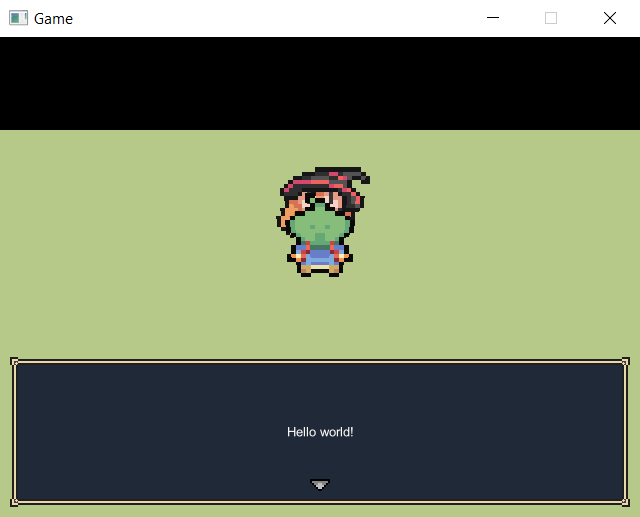
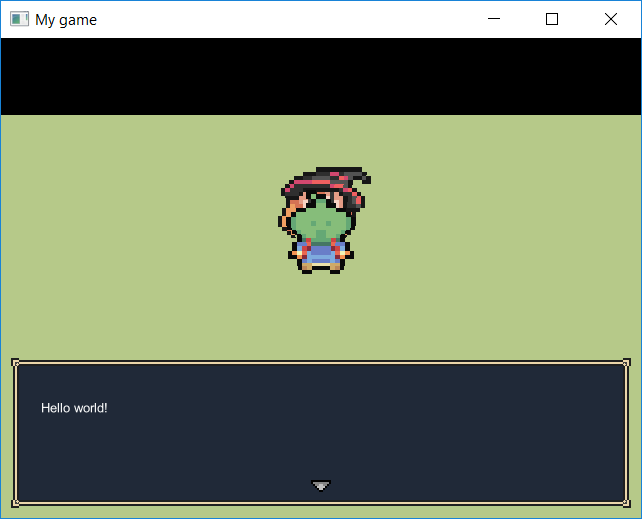
Update for 1.1.1 version

diff --git a/docs/index.md b/docs/index.md
@@ -4,9 +4,9 @@ Welcome to this guide! You will find here all what you need to be a pro Paper Ma
 
 ## License
 
-First, you should know that RPG Paper Maker is an Open Source project under GNU General Public License v3.0. Feel free to contribute to the github repository [here](https://github.com/RPG-Paper-Maker/RPG-Paper-Maker) if you have any skills in programming, project management, etc.
+First, you should know that RPG Paper Maker is an Open Source project under GNU Lesser General Public License v3.0. Feel free to contribute to the github repository [here](https://github.com/RPG-Paper-Maker/RPG-Paper-Maker) if you have any skills in programming, project management, etc.
 
-**RPG Paper Maker is free for non-commercial use** so you don't have to pay for it if you only want to share your games freely and have fun! However, if you want to sell your games made with the engine you will have to pay for the license. More details [here](http://rpg-paper-maker.com/index.php/downloads#content). If you want to support us, check out our [Patreon](https://www.patreon.com/rpgpapermaker/overview)!
+RPG Paper Maker games are licensed under Creative Commons Attribution-NonCommercial 4.0 license. **You are free to use RPG Paper Maker for your personal or non-profit games**. You can get the author's permission to use RPG Paper Maker for commercial games by paying a fee. More details [here](http://rpg-paper-maker.com/index.php/downloads#content). If you want to support us, check out our [Patreon](https://www.patreon.com/rpgpapermaker/overview)!
 
 **The commercial license is not released yet. This is comming out soon.**
 
@@ -54,7 +54,7 @@ You can open an existing project by clicking here on the main toolbar:
 
 ![Screenshot](img/open-project.png)
 
-You can also use `CTRL+O` or go to `File > Open project > Browse...`.
+You can also use `CTRL+O` or go to `File > Open project > Browse...`. Recent projects can also be opened on the first screen (or go to `File > Open project`).
 
 ## Change general game settings
 
@@ -105,6 +105,25 @@ Go to the `Systems manager > System` and take a look on the `Colors` box:
 
 ![Screenshot](img/colors.png)
 
+## Change game name
+
+Go to the `Systems manager > System` and take a look on the `Game name` box:
+
+![Screenshot](img/game-name.png)
+
+This will affect the window title when you are launching the game.
+
+## Change game screen resolution
+
+Go to the `Systems manager > System` and take a look on the `Game native resolution` box:
+
+![Screenshot](img/game-resolution.png)
+
+* `Width`: The native width of your game window.
+* `Height`: The native height of your game window.
+* `Window`: Choose a window mode.
+* `Full screen`: choose full screen mode. Note that `Width` and `Height` have no effect with this option.
+
 ## Test your game
 
 You can test your opened project by clicking here on the main toolbar:
@@ -118,5 +137,7 @@ If you want to publish your game (share your game without any need for players t
 ![Screenshot](img/deploy.png)
 
 * `Location`: The location of the standalone folder that you want to create. The name of this folder will be `yourGameName{OS}`.
-* `Deploy a desktop application`: Choose here to deploy your game as a desktop application (choose the OS in options: Windows, Linux, or Mac).
-* `Deploy for web browser`: *(not available yet)* Choose here to deploy your game as a web application. This will generate an `index.html` page and other files.
+* `Type of export`: Choose export options here.
+	* `Deploy a desktop application`: Choose here to deploy your game as a desktop application (choose the `OS` in options: Windows, Linux, or Mac).
+	* `Deploy for web browser`: *(not available yet)* Choose here to deploy your game as a web application. This will generate an `index.html` page and other files.
+* `Version`: Choose you game version. Having 1 for `major` and 0 for `minor` will create a 1.0 version.

diff --git a/docs/basics/objects-and-events.md b/docs/basics/objects-and-events.md
@@ -33,6 +33,10 @@ To edit / add a new command in a reaction, `Double click` on a corresponding nod
 
 We will see later all these commands details one by one.
 
+There is also a way to find your commands faster with keyboard search:
+
+![Screenshot](img/commands-keyboard.png)
+
 You can also copy / paste / delete by `Right-clicking` on the corresponding command node.
 
 ## Common reactions
@@ -83,9 +87,13 @@ System events are the following:
 
 An object has a set of `States`. For example, the hero can be in a normal state, or poisoned / vulnerable. Note that an object can be in several states at the same time. 
 
+You can add a new state on this list. There also is a `Update complete list...` button if you want to create new common states.
+
 ![Screenshot](img/object-state-second.png)
 
 For each state, you have to choose different reactions to specific events. You can copy / paste reactions through states by using `Copy reaction` and `Paste reaction` buttons. These different options are also available for each state:
+
+![Screenshot](img/state-options.png)
 
 * `Graphics`: Select the object graphics here (character picture). Choose below the kind of element (Sprite etc.).
 * `Moving`: *(not available yet)* Options linked to the object moves.

diff --git a/docs/basics/tilesets-and-collisions.md b/docs/basics/tilesets-and-collisions.md
@@ -8,7 +8,7 @@ A tileset corresponds to a set of informations linked to the map textures and co
 
 ![Screenshot](img/tileset-manager.png)
 
-If you want to add / remove tileset(s), you can use the `Change maximum...` button. You can change the `Picture` by clicking on the following widget that will open a reduced picture manager (containing only one kind of picture). That picture will correspond to the static textures that you will use for your maps having this tileset.
+If you want to add / remove tileset(s), you can use the `Set max...` button or `+` or `-`. You can change the `Picture` by clicking on the following widget that will open a reduced picture manager (containing only one kind of picture). That picture will correspond to the static textures that you will use for your maps having this tileset.
 
 You can also change special textures (autotiles, walls, etc.) linked to the tileset.
 

diff --git a/docs/basics/map-editor-basics.md b/docs/basics/map-editor-basics.md
@@ -154,3 +154,7 @@ To define where the game should start, you have to define who is the hero in one
 ![Screenshot](img/define-hero.png)
 
 That's it! You will understand later why we are using an object and why this will open a lot of opportunities for customizing your games!
+
+*Note:* You can see who is the hero with a "S" symbol under it.
+
+![Screenshot](img/hero.png)

diff --git a/README.md b/README.md
@@ -1,6 +1,12 @@
 # Documentation
 The general documentation (tutorials). Deploying on [RPG-Paper-Maker.github.io](https://github.com/RPG-Paper-Maker/RPG-Paper-Maker.github.io).
 
+## Local
+
+Run
+
+	mkdocs serve
+
 ## Deploy
 
 Clone [RPG-Paper-Maker.github.io](https://github.com/RPG-Paper-Maker/RPG-Paper-Maker.github.io) repo before doing anything.
